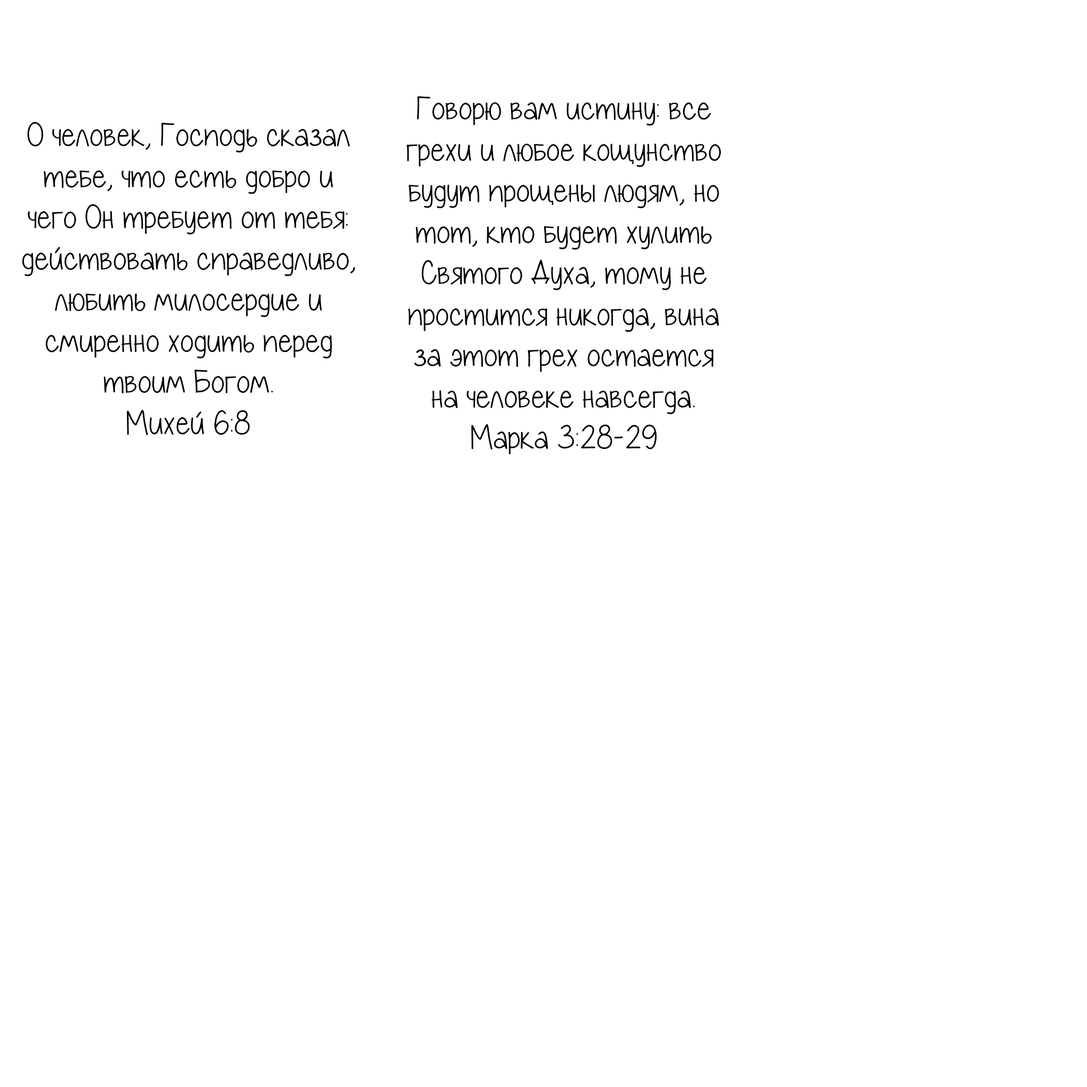
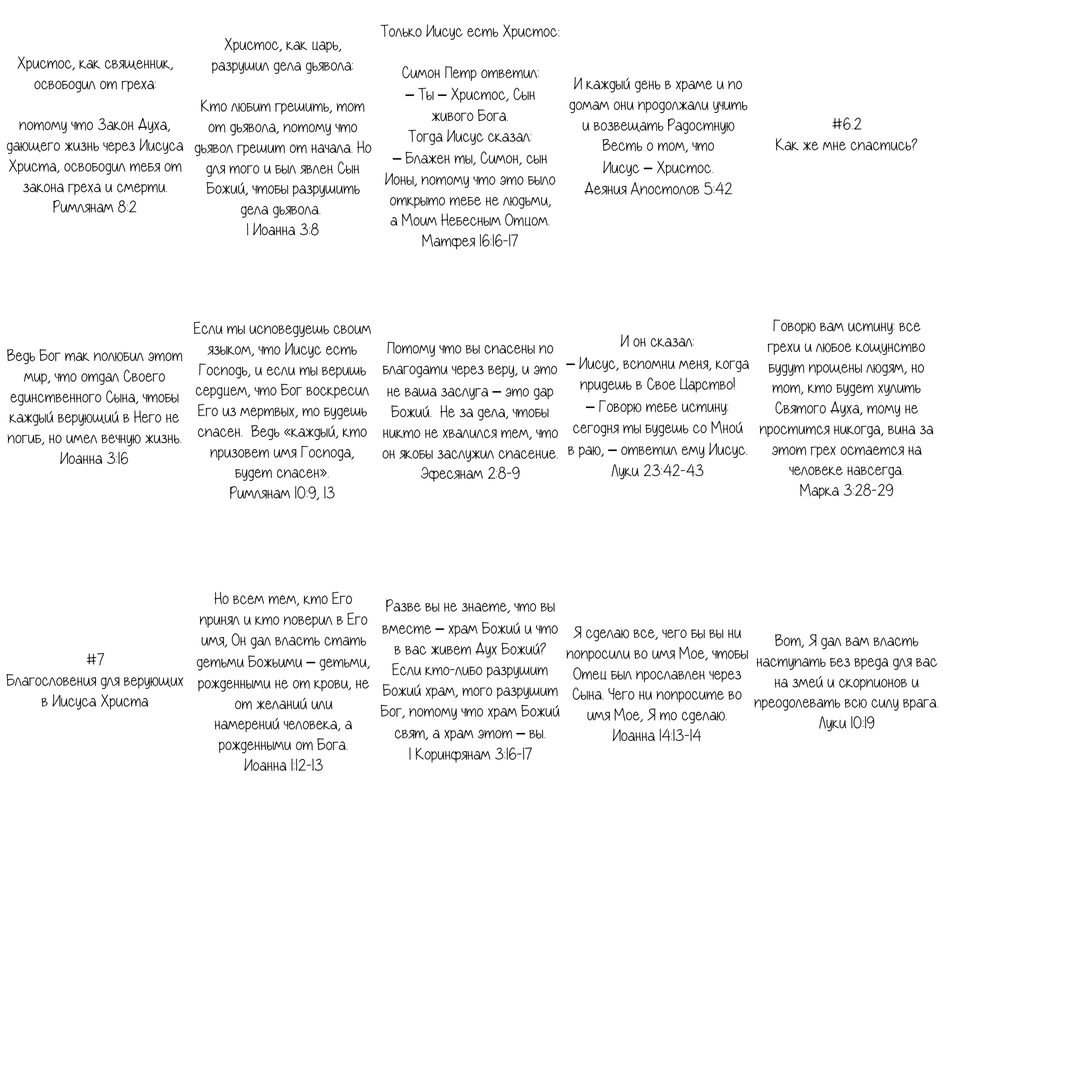
fef

diff --git a/slvtn/data.js b/slvtn/data.js
@@ -1,1 +1,1 @@
-{"project": [null,null,[[0,true,false,false,false,false,false,false,false,false],[1,true,false,false,false,false,false,false,false,false],[2,true,false,false,false,false,false,false,false,false],[3,true,false,false,false,false,false,false,false,false],[4,false,true,true,true,true,true,true,true,false]],[["t0",4,false,[],2,0,null,[["Default",0,false,1,0,false,418995464183277,[["images/logo-sheet0.png",111375,1,1,1280,779,1,0.5,0.5006418228149414,[],[],0],["images/logo-sheet0.png",111375,1,782,1280,779,1,0.5,0.5006418228149414,[],[],0]]],["wow",10,true,1,0,false,486923032463657,[["images/logo-sheet1.png",756241,1,1,1280,779,1,0.5,0.5006418228149414,[],[],0],["images/logo-sheet1.png",756241,1,782,1280,779,1,0.5,0.5006418228149414,[],[],0],["images/logo-sheet2.png",1260247,1,1,1280,779,1,0.5,0.5006418228149414,[],[],0],["images/logo-sheet2.png",1260247,1,782,1280,779,1,0.5,0.5006418228149414,[],[],0],["images/logo-sheet3.png",919888,1,1,1280,779,1,0.5,0.5006418228149414,[],[],0],["images/logo-sheet3.png",919888,1,782,1280,779,1,0.5,0.5006418228149414,[],[],0]]]],[["Bullet",5,258832219432166],["Fade",6,130368084421099]],false,false,625562632181769,[],null],["t1",3,false,[],0,0,null,null,[],false,false,325581992832441,[],null,[1]],["t2",4,false,[],1,0,null,[["Default",5,false,1,0,false,520214199912907,[["images/fader-sheet0.png",98,0,0,64,64,1,0,0,[],[],4]]]],[["Fade",6,502126500751689]],false,false,830982981311334,[],null],["t3",4,false,[],1,0,null,[["Default",20,false,1,0,false,322805464292441,[["images/logo2-sheet0.png",70864,1,1,544,484,40,0.5036764740943909,0.5351239442825317,[],[],0],["images/logo2-sheet0.png",70864,1,487,544,484,1,0.5036764740943909,0.5351239442825317,[],[],0],["images/logo2-sheet1.png",63134,1,1,544,484,1,0.5036764740943909,0.5351239442825317,[],[],0],["images/logo2-sheet1.png",63134,1,487,544,484,1,0.5036764740943909,0.5351239442825317,[],[],0],["images/logo2-sheet2.png",9606,0,0,544,484,1,0.5036764740943909,0.5351239442825317,[],[],0]]]],[["Rotate",7,834762451857370]],false,false,378574359829819,[],null],["t4",2,false,[],0,0,null,null,[],false,false,117401536936943,[],null,[]],["t5",4,false,[],3,0,null,[["Default",0,true,1,0,false,477143906605000,[["images/text-sheet0.png",44873,1,1,704,1024,1,0,0,[],[],0],["images/text-sheet0.png",44873,707,1,704,1024,1,0,0,[],[],0],["images/text-sheet1.png",109628,1,1,704,1024,1,0,0,[],[],0],["images/text-sheet1.png",109628,707,1,704,1024,1,0,0,[],[],0],["images/text-sheet2.png",88847,1,1,704,1024,1,0,0,[],[],0],["images/text-sheet2.png",88847,707,1,704,1024,1,0,0,[],[],0],["images/text-sheet3.png",67384,1,1,704,1024,1,0,0,[],[],0],["images/text-sheet3.png",67384,707,1,704,1024,1,0,0,[],[],0],["images/text-sheet4.png",98690,1,1,704,1024,1,0,0,[],[],0],["images/text-sheet4.png",98690,707,1,704,1024,1,0,0,[],[],0],["images/text-sheet5.png",90962,1,1,704,1024,1,0,0,[],[],0],["images/text-sheet5.png",90962,707,1,704,1024,1,0,0,[],[],0],["images/text-sheet6.png",98769,1,1,704,1024,1,0,0,[],[],0],["images/text-sheet6.png",98769,707,1,704,1024,1,0,0,[],[],0],["images/text-sheet7.png",137469,1,1,704,1024,1,0,0,[],[],0],["images/text-sheet7.png",137469,707,1,704,1024,1,0,0,[],[],0],["images/text-sheet8.png",87906,1,1,704,1024,1,0,0,[],[],0],["images/text-sheet8.png",87906,707,1,704,1024,1,0,0,[],[],0],["images/text-sheet9.png",63360,1,1,704,1024,1,0,0,[],[],0],["images/text-sheet9.png",63360,707,1,704,1024,1,0,0,[],[],0],["images/text-sheet10.png",83434,1,1,704,1024,1,0,0,[],[],0],["images/text-sheet10.png",83434,707,1,704,1024,1,0,0,[],[],0],["images/text-sheet11.png",112515,1,1,704,1024,1,0,0,[],[],0],["images/text-sheet11.png",112515,707,1,704,1024,1,0,0,[],[],0],["images/text-sheet12.png",110165,1,1,704,1024,1,0,0,[],[],0],["images/text-sheet12.png",110165,707,1,704,1024,1,0,0,[],[],0],["images/text-sheet13.png",96951,1,1,704,1024,1,0,0,[],[],0],["images/text-sheet13.png",96951,707,1,704,1024,1,0,0,[],[],0],["images/text-sheet14.png",131974,1,1,704,1024,1,0,0,[],[],0],["images/text-sheet14.png",131974,707,1,704,1024,1,0,0,[],[],0],["images/text-sheet0.png",44873,1,1,704,1024,1,0,0,[],[],0]]]],[["Fade",6,762607037525578],["Sine",8,310269854434896],["Sine2",8,153234466315631]],false,false,980037354401000,[],null],["t6",4,false,[],2,0,null,[["Default",10,true,1,0,false,286720204767816,[["images/fish-sheet0.png",1759,0,0,105,55,1,0.6190476417541504,0.4545454680919647,[],[],0]]]],[["Bullet",5,398600097548712],["Sine",8,937536113305606]],false,false,270263356357658,[],null],["t7",4,false,[],3,0,null,[["Default",10,true,1,0,false,806052471575343,[["images/fish_touch-sheet0.png",15907,1,1,128,128,1,0.5,0.5,[],[0.25,-0.125,0.25,0.125,-0.25,0.125,-0.25,-0.125],0],["images/fish_touch-sheet0.png",15907,131,1,128,128,1,0.5,0.5,[],[0.25,-0.125,0.25,0.125,-0.25,0.125,-0.25,-0.125],0],["images/fish_touch-sheet0.png",15907,261,1,128,128,1,0.5,0.5,[],[0.25,-0.125,0.25,0.125,-0.25,0.125,-0.25,-0.125],0],["images/fish_touch-sheet0.png",15907,1,131,128,128,1,0.5,0.5,[],[0.25,-0.125,0.25,0.125,-0.25,0.125,-0.25,-0.125],0]]]],[["Bullet",5,232237993561191],["Rotate",7,256522895414217],["Fade",6,694578646780924]],false,false,863775023120009,[],null],["t8",4,false,[],2,0,null,[["Default",0,false,1,0,false,105160499303181,[["images/button-sheet0.png",679,0,0,64,64,1,0.5,0.5,[],[],0],["images/button-sheet1.png",677,0,0,64,64,1,0.5,0.5,[],[0.5,0.5,-0.5,0.5,-0.5,-0.5,0.5,-0.5],0],["images/button-sheet2.png",711,0,0,64,64,1,0.5,0.5,[],[-0.5,0.5,-0.5,-0.5,0.5,-0.5,0.5,0.5],0]]]],[["Fade",6,964623300330851],["Sine",8,503108475491759]],false,false,423526262302037,[],null],["t9",4,false,[],1,0,null,[["Default",5,false,1,0,false,177266135327206,[["images/swiper-sheet0.png",155,0,0,64,64,1,0.5,0.5,[],[],1]]]],[["DragDrop",9,703997974765577]],false,false,682323976581314,[],null],["t10",4,false,[],0,0,null,[["Default",0,false,1,0,false,936314431238278,[["images/swipeleft-sheet0.png",250,0,0,32,32,1,0.5,0.5,[],[],1],["images/swipeleft-sheet1.png",253,0,0,32,32,1,0.5,0.5,[],[0.5,0.5,-0.5,0.5,-0.5,-0.5,0.5,-0.5],1],["images/swipeleft-sheet2.png",273,0,0,32,32,1,0.5,0.5,[],[0.5,-0.5,0.5,0.5,-0.5,0.5,-0.5,-0.5],1]]]],[],false,false,795979371291810,[],null],["t11",1,false,[],0,0,null,null,[],false,false,911370795878534,[],null,[]],["t12",4,false,[],0,0,null,[["Default",0,false,1,0,false,169995371690734,[["images/prayer-sheet0.png",167163,1,1,694,452,1,0,0,[],[],0],["images/prayer-sheet0.png",167163,697,1,694,452,1,0,0,[],[],0],["images/prayer-sheet0.png",167163,1,455,694,452,1,0,0,[],[],0],["images/prayer-sheet0.png",167163,697,455,694,452,1,0,0,[],[],0],["images/prayer-sheet0.png",167163,1,909,694,452,1,0,0,[],[],0],["images/prayer-sheet0.png",167163,697,909,694,452,1,0,0,[],[],0],["images/prayer-sheet0.png",167163,1,1363,694,452,1,0,0,[],[],0]]]],[],false,false,826899378113062,[],null],["t13",0,false,[],0,0,null,null,[],false,false,729709261876184,[],null,[]]],[],[["Layout 1",480,640,true,"Event sheet 1",205624433080386,[["bg",0,201671412246468,true,[255,255,255],false,1,1,1,false,false,1,0,0,[[[240,320,0,259.4276123046875,157.8860321044922,0,0,1,0.5,0.5006418228149414,0,0,[]],0,0,[],[[0,200,0,0,0,0],[0,0,0,2,1]],[0,"Default",0,1]]],[]],["text",1,597259016454424,true,[255,255,255],true,1,1,1,false,false,1,0,0,[[[64,64,0,352,512,0,0,1,0,0,0,0,[]],5,5,[],[[0,1,0,0,0],[1,0,0,4,1,1,1,8,0],[1,1,0,4,1,1,1,8,0]],[1,"Default",1,1]]],[]],["fish",2,125795159697013,true,[255,255,255],true,1,1,1,false,false,1,0,0,[[[192,960,0,44.21435165405273,23.1599006652832,0,0,1,0.6190476417541504,0.4545454680919647,0,0,[]],6,6,[],[[400,0,0,0,1,1],[1,1,0,4,1,1,1,16,0]],[0,"Default",0,1]],[[256,896,0,64,64,0,0,1,0.5,0.5,0,0,[]],7,7,[],[[50,100,0,0,1,1],[180,0],[1,0.5,1,2,1]],[0,"Default",0,1]]],[]],["vertuha",3,113385474911044,true,[255,255,255],true,1,1,1,false,false,1,0,0,[[[315.0949401855469,293.4939575195313,0,110.2567367553711,98.0960693359375,0,0.03490658476948738,1,0.5036764740943909,0.5351239442825317,0,0,[]],3,3,[],[[360,-179]],[0,"Default",0,1]]],[]],["buttons",4,520819614271636,true,[255,255,255],true,1,1,1,false,false,1,0,0,[[[64,544,0,352,224,0,0,1,0,0,0,0,[]],12,14,[],[],[1,"Default",0,1]],[[240,608,0,32,32,0,0,1,0.5,0.5,0,0,[]],8,17,[],[[0,1,1,1,0],[1,1,0,1,0,0,0,8,0]],[1,"Default",2,1]]],[]],["fader",5,800787038877238,true,[255,255,255],true,1,1,1,false,false,1,0,0,[[[-1472,-736,0,3552,2080,0,0,1,0,0,0,0,[]],2,2,[],[[1,0,0,1,1]],[0,"Default",0,1]]],[]],["swiper",6,695357641955091,false,[255,255,255],true,1,1,1,false,false,1,0,0,[[[256,320,0,1024,960,0,0,1,0.5,0.5,0,0,[]],9,10,[],[[0,0]],[0,"Default",0,1]],[[-384,320,0,96,160,0,0,1,0.5,0.5,0,0,[]],10,11,[],[],[0,"Default",0,1]],[[896,320,0,96,160,0,0,1,0.5,0.5,0,0,[]],10,12,[],[],[0,"Default",1,1]],[[240,-288,0,96,96,0,0,1,0.5,0.5,0,0,[]],10,15,[],[],[0,"Default",2,1]]],[]]],[],[["blurhorizontal","BlurHorizontal",[0.2]],["blurvertical","BlurVertical",[0.2]],["inverse","Inverse",[1]]]]],[["Event sheet 1",[[1,"date",0,0,false,false,696302567398240,false],[0,null,false,null,309624172096126,[[1,10,null,1,false,false,false,628744509108439,false,[[4,0]]],[0,11,null,0,false,false,false,913189327810310,false,[[8,0],[0,[0,1]]]]],[[0,12,null,698992189874373,false,[[1,[2,"wow"]],[3,1]]]]],[0,null,false,null,323952989739225,[[-1,13,null,1,false,false,false,322531624705658,false]],[[-1,14,null,827989714910915,false,[[0,[1,2]]]],[3,15,"Rotate",618631225360874,false,[[0,[0,0]]]],[3,16,"Rotate",730891330793725,false,[[0,[0,0]]]],[-1,14,null,751084052768725,false,[[0,[1,0.2]]]],[3,17,null,361857955112781,false],[0,18,null,390602852570839,false,[[0,[0,1]]]],[-1,14,null,380398229959213,false,[[0,[1,0.3]]]],[0,19,"Bullet",229405659203501,false,[[3,1]]],[-1,14,null,892896219824449,false,[[0,[1,0.001]]]],[0,20,"Bullet",516493230263629,false,[[0,[0,270]]]],[0,21,"Fade",763469177023472,false],[-1,14,null,934034680713200,false,[[0,[0,2]]]],[9,22,"DragDrop",877659753415498,false,[[3,1]]],[5,21,"Fade",276875999067623,false],[5,23,null,102436078860544,false,[[3,1]]],[5,18,null,656973415752054,false,[[0,[19,24,[[19,25,[[0,1],[5,[20,5,26,false,null],[0,2]]]]]]]]],[-1,14,null,497564761132166,false,[[0,[0,8]]]],[8,21,"Fade",699641798993413,false],[8,23,null,723305404960673,false,[[3,1]]]]],[0,null,false,null,440433630469907,[[-1,13,null,1,false,false,false,451229515941913,false]],[[-1,27,null,471891387691132,false,[[11,"date"],[7,[20,4,28,false,null,[[2,"var d = new Date(); d.getHours();"]]]]]]],[[0,null,false,null,618537243317330,[[-1,29,null,0,false,false,false,240538950288424,false,[[11,"date"],[8,4],[7,[0,6]]]],[-1,29,null,0,false,false,false,527729520498926,false,[[11,"date"],[8,2],[7,[0,19]]]]],[[-1,30,null,152124672107683,false,[[3,0],[1,[2,"Inverse"]]]]]]]],[0,null,false,null,322524124446675,[[-1,31,null,0,false,false,false,558947456675569,false,[[0,[19,25,[[0,3]]]]]]],[[-1,32,null,986730461722726,false,[[4,6],[5,[0,2]],[0,[0,-640]],[0,[19,25,[[0,640]]]]]],[6,33,null,928980478511326,false,[[0,[19,25,[[1,0.3],[1,0.9]]]]]],[6,34,"Bullet",435331186895883,false,[[0,[19,25,[[0,20],[0,100]]]]]],[6,35,null,789542019451149,false,[[0,[19,25,[[0,10],[0,25]]]]]],[-1,14,null,871583520327419,false,[[0,[0,60]]]],[6,17,null,583221185704560,false]]],[0,null,false,null,399430186267045,[[1,36,null,0,false,false,false,699984781294561,false],[-1,31,null,0,false,false,false,710016541216087,false,[[0,[1,0.05]]]]],[[-1,32,null,102795230569019,false,[[4,7],[5,[0,2]],[0,[20,1,37,false,null]],[0,[20,1,38,false,null]]]],[7,39,null,728806643229993,false,[[0,[19,25,[[0,360]]]]]],[7,15,"Rotate",660212680631090,false,[[0,[19,25,[[0,-100],[0,100]]]]]],[-1,14,null,136392356347118,false,[[0,[1,0.05]]]],[7,40,null,908478426226159,false,[[0,[20,1,37,false,null]],[0,[20,1,38,false,null]]]],[7,41,null,912532032442723,false,[[0,[6,[0,64],[19,25,[[1,0.6],[1,1.2]]]]],[0,[6,[0,64],[19,25,[[1,0.6],[1,1.2]]]]]]]]],[0,null,false,null,290002719010398,[[9,42,null,0,false,false,true,253391445801160,false,[[4,10]]],[5,43,null,0,false,false,false,815664970303180,false],[5,44,null,0,false,false,false,627584844871605,false,[[8,0],[0,[0,512]]]]],[[5,45,"Fade",649013950654889,false],[8,17,null,346264767593470,false]],[[0,null,false,null,569473609311635,[[10,11,null,0,false,false,false,747227902416336,false,[[8,0],[0,[0,0]]]]],[[9,46,"DragDrop",439735253539397,false],[9,47,null,126287724741578,false,[[0,[0,256]],[0,[0,320]]]],[5,18,null,797191449587187,false,[[0,[4,[20,5,48,false,null],[0,1]]]]]]],[0,null,false,null,556268961098407,[[10,11,null,0,false,false,false,746880719686533,false,[[8,0],[0,[0,1]]]]],[[9,46,"DragDrop",232590711231413,false],[9,47,null,910510762433961,false,[[0,[0,256]],[0,[0,320]]]],[5,18,null,105555962807018,false,[[0,[5,[20,5,48,false,null],[0,1]]]]]]]]],[0,null,false,null,921486789102260,[[5,11,null,0,false,false,false,332983489528877,false,[[8,0],[0,[5,[20,5,26,false,null],[0,1]]]]]],[[5,18,null,774720743596251,false,[[0,[0,1]]]]]],[0,null,false,null,289143839717927,[[5,11,null,0,false,false,false,376388425455066,false,[[8,0],[0,[0,0]]]]],[[5,18,null,220254098358816,false,[[0,[5,[20,5,26,false,null],[0,2]]]]]]],[0,null,false,null,362531363375375,[[11,49,null,1,false,false,false,492839751150176,false,[[9,39]]],[5,44,null,0,false,false,false,122777761346644,false,[[8,0],[0,[0,512]]]],[5,43,null,0,false,false,false,458829672488222,false]],[[9,46,"DragDrop",372446919086437,false],[9,47,null,458040420002859,false,[[0,[0,256]],[0,[0,320]]]],[5,18,null,226093998338585,false,[[0,[4,[20,5,48,false,null],[0,1]]]]],[5,45,"Fade",285880504700183,false],[8,17,null,614844437458999,false]]],[0,null,false,null,507549630433831,[[11,49,null,1,false,false,false,187476851082478,false,[[9,37]]],[5,44,null,0,false,false,false,979809232295585,false,[[8,0],[0,[0,512]]]],[5,43,null,0,false,false,false,371597332052268,false]],[[9,46,"DragDrop",898064119347716,false],[9,47,null,330218325154033,false,[[0,[0,256]],[0,[0,320]]]],[5,18,null,244379294966719,false,[[0,[5,[20,5,48,false,null],[0,1]]]]],[5,45,"Fade",523795082220286,false],[8,17,null,486799479024622,false]]],[0,null,true,null,621094618470503,[[9,42,null,0,false,false,true,733449104710207,false,[[4,10]]],[11,49,null,1,false,false,false,820685941675464,false,[[9,38]]]],[],[[0,null,false,null,407444062349930,[[10,11,null,0,false,false,false,442545474797143,false,[[8,0],[0,[0,2]]]],[5,43,null,0,false,false,false,974685639080253,false],[5,44,null,0,false,false,false,393363628550767,false,[[8,0],[0,[0,512]]]]],[[5,45,"Fade",504299301496474,false],[8,17,null,773783775503613,false],[9,46,"DragDrop",675688244861622,false],[9,47,null,865139520780953,false,[[0,[0,256]],[0,[0,320]]]],[-1,14,null,260353448136262,false,[[0,[1,0.01]]]],[5,50,null,347447832920938,false,[[0,[0,511]]]],[5,47,null,608845375689987,false,[[0,[0,64]],[0,[0,16]]]],[12,23,null,317627127177109,false,[[3,1]]],[12,47,null,216904509758556,false,[[0,[0,64]],[0,[0,544]]]]]],[0,null,false,null,418539868187718,[[10,11,null,0,false,false,false,588693339342128,false,[[8,0],[0,[0,2]]]],[5,43,null,0,false,false,false,729981718879023,false],[5,44,null,0,false,false,false,102965017489362,false,[[8,0],[0,[0,511]]]]],[[9,46,"DragDrop",720352861690106,false],[9,47,null,850325845660246,false,[[0,[0,256]],[0,[0,320]]]],[13,51,null,259448243290204,false,[[1,[2,"move"]],[13]]]]]]],[0,null,false,null,829470260751105,[[13,52,null,2,false,false,false,863163373314702,false,[[1,[2,"move"]]]]],[[12,53,null,219851476356067,false,[[0,[5,[20,12,54,false,null],[0,8]]]]],[-1,14,null,923250318269756,false,[[0,[1,0.01]]]],[12,53,null,912751617105909,false,[[0,[5,[20,12,54,false,null],[0,8]]]]],[-1,14,null,173037055267767,false,[[0,[1,0.01]]]],[12,53,null,805894337193381,false,[[0,[5,[20,12,54,false,null],[0,8]]]]],[-1,14,null,106248481428556,false,[[0,[1,0.01]]]],[12,53,null,306712211342771,false,[[0,[5,[20,12,54,false,null],[0,4]]]]],[-1,14,null,275918312560823,false,[[0,[1,0.01]]]],[12,53,null,904947758450616,false,[[0,[5,[20,12,54,false,null],[0,2]]]]],[-1,14,null,350135188166338,false,[[0,[1,0.01]]]],[12,53,null,374072380550109,false,[[0,[5,[20,12,54,false,null],[0,1]]]]],[-1,14,null,687833072212219,false,[[0,[1,0.01]]]],[12,53,null,309062102660616,false,[[0,[5,[20,12,54,false,null],[0,1]]]]],[12,18,null,368333704009768,false,[[0,[4,[20,12,48,false,null],[0,1]]]]]]],[0,null,false,null,698897770791210,[[12,11,null,0,false,false,false,117825005702246,false,[[8,0],[0,[0,6]]]]],[[12,18,null,119168233861148,false,[[0,[0,0]]]],[5,50,null,671739142103857,false,[[0,[0,512]]]],[5,47,null,177384678834327,false,[[0,[0,64]],[0,[0,64]]]],[12,23,null,672502653215761,false,[[3,0]]],[12,47,null,991157610259896,false,[[0,[0,64]],[0,[0,544]]]],[5,45,"Fade",783470661729937,false]]],[0,null,false,null,271009559236667,[[9,55,"DragDrop",1,false,false,false,996618354902519,false]],[[9,47,null,302303908717624,false,[[0,[0,256]],[0,[0,320]]]]]]]]],[],"media/",false,480,640,3,true,true,true,"1",true,false,3,0,18,false,true,1,true,"slvtn",0,[]]}
+{"project": [null,null,[[0,true,false,false,false,false,false,false,false,false],[1,true,false,false,false,false,false,false,false,false],[2,true,false,false,false,false,false,false,false,false],[3,true,false,false,false,false,false,false,false,false],[4,false,true,true,true,true,true,true,true,false]],[["t0",4,false,[],2,0,null,[["Default",0,false,1,0,false,418995464183277,[["images/logo-sheet0.png",111375,1,1,1280,779,1,0.5,0.5006418228149414,[],[],0],["images/logo-sheet0.png",111375,1,782,1280,779,1,0.5,0.5006418228149414,[],[],0]]],["wow",10,true,1,0,false,486923032463657,[["images/logo-sheet1.png",756241,1,1,1280,779,1,0.5,0.5006418228149414,[],[],0],["images/logo-sheet1.png",756241,1,782,1280,779,1,0.5,0.5006418228149414,[],[],0],["images/logo-sheet2.png",1260247,1,1,1280,779,1,0.5,0.5006418228149414,[],[],0],["images/logo-sheet2.png",1260247,1,782,1280,779,1,0.5,0.5006418228149414,[],[],0],["images/logo-sheet3.png",919888,1,1,1280,779,1,0.5,0.5006418228149414,[],[],0],["images/logo-sheet3.png",919888,1,782,1280,779,1,0.5,0.5006418228149414,[],[],0]]]],[["Bullet",5,258832219432166],["Fade",6,130368084421099]],false,false,625562632181769,[],null],["t1",3,false,[],0,0,null,null,[],false,false,325581992832441,[],null,[1]],["t2",4,false,[],1,0,null,[["Default",5,false,1,0,false,520214199912907,[["images/fader-sheet0.png",98,0,0,64,64,1,0,0,[],[],4]]]],[["Fade",6,502126500751689]],false,false,830982981311334,[],null],["t3",4,false,[],1,0,null,[["Default",20,false,1,0,false,322805464292441,[["images/logo2-sheet0.png",70864,1,1,544,484,40,0.5036764740943909,0.5351239442825317,[],[],0],["images/logo2-sheet0.png",70864,1,487,544,484,1,0.5036764740943909,0.5351239442825317,[],[],0],["images/logo2-sheet1.png",63134,1,1,544,484,1,0.5036764740943909,0.5351239442825317,[],[],0],["images/logo2-sheet1.png",63134,1,487,544,484,1,0.5036764740943909,0.5351239442825317,[],[],0],["images/logo2-sheet2.png",9606,0,0,544,484,1,0.5036764740943909,0.5351239442825317,[],[],0]]]],[["Rotate",7,834762451857370]],false,false,378574359829819,[],null],["t4",0,false,[],0,0,null,null,[],false,false,117401536936943,[],null,[]],["t5",4,false,[],3,0,null,[["Default",0,true,1,0,false,477143906605000,[["images/text-sheet0.png",317260,1,1,352,512,1,0,0,[],[],0],["images/text-sheet0.png",317260,355,1,352,512,1,0,0,[],[],0],["images/text-sheet0.png",317260,709,1,352,512,1,0,0,[],[],0],["images/text-sheet0.png",317260,1063,1,352,512,1,0,0,[],[],0],["images/text-sheet0.png",317260,1417,1,352,512,1,0,0,[],[],0],["images/text-sheet0.png",317260,1,515,352,512,1,0,0,[],[],0],["images/text-sheet0.png",317260,355,515,352,512,1,0,0,[],[],0],["images/text-sheet0.png",317260,709,515,352,512,1,0,0,[],[],0],["images/text-sheet0.png",317260,1063,515,352,512,1,0,0,[],[],0],["images/text-sheet0.png",317260,1417,515,352,512,1,0,0,[],[],0],["images/text-sheet0.png",317260,1,1029,352,512,1,0,0,[],[],0],["images/text-sheet0.png",317260,355,1029,352,512,1,0,0,[],[],0],["images/text-sheet0.png",317260,709,1029,352,512,1,0,0,[],[],0],["images/text-sheet0.png",317260,1063,1029,352,512,1,0,0,[],[],0],["images/text-sheet0.png",317260,1417,1029,352,512,1,0,0,[],[],0],["images/text-sheet1.png",353833,1,1,352,512,1,0,0,[],[],0],["images/text-sheet1.png",353833,355,1,352,512,1,0,0,[],[],0],["images/text-sheet1.png",353833,709,1,352,512,1,0,0,[],[],0],["images/text-sheet1.png",353833,1063,1,352,512,1,0,0,[],[],0],["images/text-sheet1.png",353833,1417,1,352,512,1,0,0,[],[],0],["images/text-sheet1.png",353833,1,515,352,512,1,0,0,[],[],0],["images/text-sheet1.png",353833,355,515,352,512,1,0,0,[],[],0],["images/text-sheet1.png",353833,709,515,352,512,1,0,0,[],[],0],["images/text-sheet1.png",353833,1063,515,352,512,1,0,0,[],[],0],["images/text-sheet1.png",353833,1417,515,352,512,1,0,0,[],[],0],["images/text-sheet1.png",353833,1,1029,352,512,1,0,0,[],[],0],["images/text-sheet1.png",353833,355,1029,352,512,1,0,0,[],[],0],["images/text-sheet1.png",353833,709,1029,352,512,1,0,0,[],[],0],["images/text-sheet1.png",353833,1063,1029,352,512,1,0,0,[],[],0],["images/text-sheet1.png",353833,1417,1029,352,512,1,0,0,[],[],0],["images/text-sheet2.png",172707,1,1,352,512,1,0,0,[],[],0],["images/text-sheet2.png",172707,355,1,352,512,1,0,0,[],[],0],["images/text-sheet2.png",172707,709,1,352,512,1,0,0,[],[],0],["images/text-sheet2.png",172707,1063,1,352,512,1,0,0,[],[],0],["images/text-sheet2.png",172707,1417,1,352,512,1,0,0,[],[],0],["images/text-sheet2.png",172707,1,515,352,512,1,0,0,[],[],0],["images/text-sheet2.png",172707,355,515,352,512,1,0,0,[],[],0],["images/text-sheet0.png",317260,1,1,352,512,1,0,0,[],[],0]]],["salvation_route",0,true,1,0,false,537225645502406,[["images/text-sheet0.png",317260,1,1,352,512,1,0,0,[],[],0],["images/text-sheet2.png",172707,709,515,352,512,1,0,0,[],[],0],["images/text-sheet2.png",172707,1063,515,352,512,1,0,0,[],[],0],["images/text-sheet2.png",172707,1417,515,352,512,1,0,0,[],[],0],["images/text-sheet2.png",172707,1,1029,352,512,1,0,0,[],[],0],["images/text-sheet2.png",172707,355,1029,352,512,1,0,0,[],[],0],["images/text-sheet2.png",172707,709,1029,352,512,1,0,0,[],[],0],["images/text-sheet2.png",172707,1063,1029,352,512,1,0,0,[],[],0],["images/text-sheet2.png",172707,1417,1029,352,512,1,0,0,[],[],0],["images/text-sheet3.png",257072,1,1,352,512,1,0,0,[],[],0],["images/text-sheet3.png",257072,355,1,352,512,1,0,0,[],[],0],["images/text-sheet3.png",257072,709,1,352,512,1,0,0,[],[],0],["images/text-sheet3.png",257072,1063,1,352,512,1,0,0,[],[],0],["images/text-sheet3.png",257072,1417,1,352,512,1,0,0,[],[],0],["images/text-sheet2.png",172707,1063,1,352,512,1,0,0,[],[],0],["images/text-sheet3.png",257072,1,515,352,512,1,0,0,[],[],0],["images/text-sheet3.png",257072,355,515,352,512,1,0,0,[],[],0],["images/text-sheet3.png",257072,709,515,352,512,1,0,0,[],[],0],["images/text-sheet3.png",257072,1063,515,352,512,1,0,0,[],[],0],["images/text-sheet3.png",257072,1417,515,352,512,1,0,0,[],[],0],["images/text-sheet3.png",257072,1,1029,352,512,1,0,0,[],[],0],["images/text-sheet3.png",257072,355,1029,352,512,1,0,0,[],[],0],["images/text-sheet3.png",257072,709,1029,352,512,1,0,0,[],[],0],["images/text-sheet3.png",257072,1063,1029,352,512,1,0,0,[],[],0],["images/text-sheet3.png",257072,1417,1029,352,512,1,0,0,[],[],0],["images/text-sheet4.png",245249,1,1,352,512,1,0,0,[],[],0],["images/text-sheet4.png",245249,355,1,352,512,1,0,0,[],[],0],["images/text-sheet4.png",245249,709,1,352,512,1,0,0,[],[],0],["images/text-sheet4.png",245249,1063,1,352,512,1,0,0,[],[],0],["images/text-sheet4.png",245249,1417,1,352,512,1,0,0,[],[],0],["images/text-sheet4.png",245249,1,515,352,512,1,0,0,[],[],0],["images/text-sheet4.png",245249,355,515,352,512,1,0,0,[],[],0],["images/text-sheet4.png",245249,709,515,352,512,1,0,0,[],[],0],["images/text-sheet4.png",245249,1063,515,352,512,1,0,0,[],[],0],["images/text-sheet4.png",245249,1417,515,352,512,1,0,0,[],[],0],["images/text-sheet2.png",172707,1,1,352,512,1,0,0,[],[],0],["images/text-sheet2.png",172707,355,515,352,512,1,0,0,[],[],0],["images/text-sheet4.png",245249,1,1029,352,512,1,0,0,[],[],0],["images/text-sheet4.png",245249,355,1029,352,512,1,0,0,[],[],0],["images/text-sheet4.png",245249,709,1029,352,512,1,0,0,[],[],0],["images/text-sheet4.png",245249,1063,1029,352,512,1,0,0,[],[],0],["images/text-sheet2.png",172707,1417,1,352,512,1,0,0,[],[],0],["images/text-sheet2.png",172707,1,515,352,512,1,0,0,[],[],0],["images/text-sheet2.png",172707,709,1,352,512,1,0,0,[],[],0],["images/text-sheet4.png",245249,1417,1029,352,512,1,0,0,[],[],0],["images/text-sheet5.png",160544,1,1,352,512,1,0,0,[],[],0],["images/text-sheet2.png",172707,355,1,352,512,1,0,0,[],[],0],["images/text-sheet5.png",160544,355,1,352,512,1,0,0,[],[],0],["images/text-sheet5.png",160544,709,1,352,512,1,0,0,[],[],0],["images/text-sheet5.png",160544,1063,1,352,512,1,0,0,[],[],0],["images/text-sheet5.png",160544,1417,1,352,512,1,0,0,[],[],0],["images/text-sheet5.png",160544,1,515,352,512,1,0,0,[],[],0],["images/text-sheet5.png",160544,355,515,352,512,1,0,0,[],[],0],["images/text-sheet5.png",160544,709,515,352,512,1,0,0,[],[],0],["images/text-sheet5.png",160544,1063,515,352,512,1,0,0,[],[],0],["images/text-sheet5.png",160544,1417,515,352,512,1,0,0,[],[],0],["images/text-sheet0.png",317260,1,1,352,512,1,0,0,[],[],0]]]],[["Fade",6,762607037525578],["Sine",8,310269854434896],["Sine2",8,153234466315631]],false,false,980037354401000,[],null],["t6",4,false,[],2,0,null,[["Default",10,true,1,0,false,286720204767816,[["images/fish-sheet0.png",1150,0,0,64,32,1,0.625,0.46875,[],[],0]]]],[["Bullet",5,398600097548712],["Sine",8,937536113305606]],false,false,270263356357658,[],null],["t7",4,false,[],3,0,null,[["Default",10,true,1,0,false,806052471575343,[["images/fish_touch-sheet0.png",15907,1,1,128,128,1,0.5,0.5,[],[0.25,-0.125,0.25,0.125,-0.25,0.125,-0.25,-0.125],0],["images/fish_touch-sheet0.png",15907,131,1,128,128,1,0.5,0.5,[],[0.25,-0.125,0.25,0.125,-0.25,0.125,-0.25,-0.125],0],["images/fish_touch-sheet0.png",15907,261,1,128,128,1,0.5,0.5,[],[0.25,-0.125,0.25,0.125,-0.25,0.125,-0.25,-0.125],0],["images/fish_touch-sheet0.png",15907,1,131,128,128,1,0.5,0.5,[],[0.25,-0.125,0.25,0.125,-0.25,0.125,-0.25,-0.125],0]]]],[["Bullet",5,232237993561191],["Rotate",7,256522895414217],["Fade",6,694578646780924]],false,false,863775023120009,[],null],["t8",4,false,[],2,0,null,[["Default",0,false,1,0,false,105160499303181,[["images/button-sheet0.png",679,0,0,64,64,1,0.5,0.5,[],[],0]]]],[["Fade",6,964623300330851],["Sine",8,503108475491759]],false,false,423526262302037,[],null],["t9",4,false,[],1,0,null,[["Default",5,false,1,0,false,177266135327206,[["images/swiper-sheet0.png",155,0,0,64,64,1,0.5,0.5,[],[],1]]]],[["DragDrop",9,703997974765577]],false,false,682323976581314,[],null],["t10",4,false,[],0,0,null,[["Default",0,false,1,0,false,936314431238278,[["images/swipeleft-sheet0.png",250,0,0,32,32,1,0.5,0.5,[],[],1],["images/swipeleft-sheet1.png",253,0,0,32,32,1,0.5,0.5,[],[0.5,0.5,-0.5,0.5,-0.5,-0.5,0.5,-0.5],1],["images/swipeleft-sheet2.png",273,0,0,32,32,1,0.5,0.5,[],[0.5,-0.5,0.5,0.5,-0.5,0.5,-0.5,-0.5],1]]]],[],false,false,795979371291810,[],null],["t11",2,false,[],0,0,null,null,[],false,false,911370795878534,[],null,[]],["t12",4,false,[],0,0,null,[["Default",0,false,1,0,false,169995371690734,[["images/prayer-sheet0.png",167163,1,1,694,452,1,0,0,[],[],0],["images/prayer-sheet0.png",167163,697,1,694,452,1,0,0,[],[],0],["images/prayer-sheet0.png",167163,1,455,694,452,1,0,0,[],[],0],["images/prayer-sheet0.png",167163,697,455,694,452,1,0,0,[],[],0],["images/prayer-sheet0.png",167163,1,909,694,452,1,0,0,[],[],0],["images/prayer-sheet0.png",167163,697,909,694,452,1,0,0,[],[],0],["images/prayer-sheet0.png",167163,1,1363,694,452,1,0,0,[],[],0]]]],[],false,false,826899378113062,[],null],["t13",1,false,[],0,0,null,null,[],false,false,729709261876184,[],null,[]],["t14",4,false,[],1,0,null,[["Default",0,false,1,0,false,848278889389579,[["images/buttton-sheet0.png",4386,1,70,171,68,1,0.5029239654541016,0.5,[],[],0],["images/buttton-sheet0.png",4386,1,1,204,67,1,0.5,0.5074626803398132,[],[],0]]]],[["Fade",6,843179099277647]],false,false,927833600064146,[],null],["t15",4,false,[],2,0,null,[["Default",0,false,1,0,false,640247992749835,[["images/button-sheet0.png",679,0,0,64,64,1,0.5,0.5,[],[],0]]]],[["Fade",6,410742000596573],["Sine",8,566947371270276]],false,false,127714377664411,[],null],["t16",4,false,[],1,0,null,[["Default",5,false,1,0,false,559983728933671,[["images/blink-sheet0.png",5180,0,0,512,512,1,0.48828125,0.51171875,[],[],0]]]],[["Fade",6,624983641805669]],false,false,492051924620334,[],null]],[],[["Layout 1",480,640,true,"Event sheet 1",205624433080386,[["bg",0,201671412246468,true,[255,255,255],false,1,1,1,false,false,1,0,0,[[[240,320,0,259.4276123046875,157.8860321044922,0,0,1,0.5,0.5006418228149414,0,0,[]],0,0,[],[[0,200,0,0,0,0],[0,0,0,2,1]],[0,"Default",0,1]],[[800,1376,0,512,720,0,0,1,0.48828125,0.51171875,0,0,[]],16,20,[],[[1,0.1,0,0.7,1]],[1,"Default",0,1]]],[]],["text",1,597259016454424,true,[255,255,255],true,1,1,1,false,false,1,0,0,[[[64,64,0,352,512,0,0,1,0,0,0,0,[]],5,5,[],[[0,1,0,0,0],[1,0,0,4,1,1,1,8,0],[1,1,0,4,1,1,1,8,0]],[1,"salvation_route",1,1]]],[]],["fish",2,125795159697013,true,[255,255,255],true,1,1,1,false,false,1,0,0,[[[192,960,0,26.94969940185547,13.47485160827637,0,0,1,0.625,0.46875,0,0,[]],6,6,[],[[400,0,0,0,1,1],[1,1,0,4,1,1,1,16,0]],[0,"Default",0,1]],[[256,896,0,64,64,0,0,1,0.5,0.5,0,0,[]],7,7,[],[[50,100,0,0,1,1],[180,0],[1,0.5,1,2,1]],[0,"Default",0,1]]],[]],["vertuha",3,113385474911044,true,[255,255,255],true,1,1,1,false,false,1,0,0,[[[315.0949401855469,293.4939575195313,0,110.2567367553711,98.0960693359375,0,0.03490658476948738,1,0.5036764740943909,0.5351239442825317,0,0,[]],3,3,[],[[360,-179]],[0,"Default",0,1]]],[]],["buttons",4,520819614271636,true,[255,255,255],true,1,1,1,false,false,1,0,0,[[[64,544,0,352,224,0,0,1,0,0,0,0,[]],12,14,[],[],[1,"Default",0,1]],[[416,320,0,32,32,0,0,1,0.5,0.5,0,0,[]],8,17,[],[[0,1,1,1,0],[1,0,0,1,0,0,0,4,0]],[1,"Default",0,1]],[[64,320,0,32,32,0,3.141592741012573,1,0.5,0.5,0,0,[]],8,8,[],[[0,1,1,1,0],[1,0,0,1,0,0,0,-4,0]],[1,"Default",1,1]],[[240,288,0,171,68,0,0,1,0.5029239654541016,0.5,0,0,[]],14,9,[],[[0,1,0,0,0]],[1,"Default",0,1]],[[240,352,0,204,67,0,0,1,0.5,0.5074626803398132,0,0,[]],14,18,[],[[0,1,0,0,0]],[1,"Default",1,1]],[[240,576,0,32,32,0,-1.570796370506287,1,0.5,0.5,0,0,[]],15,19,[],[[0,1,1,1,0],[1,1,0,1,0,0,0,8,0]],[1,"Default",2,1]]],[]],["fader",5,800787038877238,true,[255,255,255],true,1,1,1,false,false,1,0,0,[[[-1472,-736,0,3552,2080,0,0,1,0,0,0,0,[]],2,2,[],[[1,0,0,1,1]],[0,"Default",0,1]]],[]],["swiper",6,695357641955091,false,[255,255,255],true,1,1,1,false,false,1,0,0,[[[256,320,0,1024,960,0,0,1,0.5,0.5,0,0,[]],9,10,[],[[0,0]],[0,"Default",0,1]],[[-384,320,0,96,160,0,0,1,0.5,0.5,0,0,[]],10,11,[],[],[0,"Default",0,1]],[[896,320,0,96,160,0,0,1,0.5,0.5,0,0,[]],10,12,[],[],[0,"Default",1,1]],[[240,-288,0,96,96,0,0,1,0.5,0.5,0,0,[]],10,15,[],[],[0,"Default",2,1]]],[]]],[],[["blurhorizontal","BlurHorizontal",[0.2]],["blurvertical","BlurVertical",[0.2]],["inverse","Inverse",[1]]]]],[["Event sheet 1",[[1,"date",0,0,false,false,696302567398240,false],[0,null,false,null,309624172096126,[[1,10,null,1,false,false,false,628744509108439,false,[[4,0]]],[0,11,null,0,false,false,false,913189327810310,false,[[8,0],[0,[0,1]]]]],[[0,12,null,698992189874373,false,[[1,[2,"wow"]],[3,1]]]]],[0,null,false,null,323952989739225,[[-1,13,null,1,false,false,false,322531624705658,false]],[[-1,14,null,827989714910915,false,[[0,[1,2]]]],[3,15,"Rotate",618631225360874,false,[[0,[0,0]]]],[3,16,"Rotate",730891330793725,false,[[0,[0,0]]]],[-1,14,null,751084052768725,false,[[0,[1,0.2]]]],[3,17,null,269188510763428,false,[[4,16],[5,[0,0]],[7,[0,0]]]],[16,18,null,170318933130325,false,[[0,[0,0]]]],[16,19,null,140536037311432,false,[[3,1]]],[3,20,null,361857955112781,false],[0,21,null,390602852570839,false,[[0,[0,1]]]],[-1,14,null,380398229959213,false,[[0,[1,0.5]]]],[0,22,"Bullet",229405659203501,false,[[3,1]]],[-1,14,null,892896219824449,false,[[0,[1,0.001]]]],[0,23,"Bullet",516493230263629,false,[[0,[0,270]]]],[0,24,"Fade",763469177023472,false],[-1,14,null,934034680713200,false,[[0,[0,2]]]],[14,19,null,331188801323335,false,[[3,1]]],[14,24,"Fade",517350915171024,false]]],[0,null,false,null,440433630469907,[[-1,13,null,1,false,false,false,451229515941913,false]],[[-1,25,null,471891387691132,false,[[11,"date"],[7,[20,4,26,false,null,[[2,"var d = new Date(); d.getHours();"]]]]]]],[[0,null,false,null,618537243317330,[[-1,27,null,0,false,false,false,240538950288424,false,[[11,"date"],[8,4],[7,[0,6]]]],[-1,27,null,0,false,false,false,527729520498926,false,[[11,"date"],[8,2],[7,[0,19]]]]],[[-1,28,null,152124672107683,false,[[3,0],[1,[2,"Inverse"]]]]]]]],[0,null,false,null,322524124446675,[[-1,29,null,0,false,false,false,558947456675569,false,[[0,[4,[19,30,[[0,2]]],[0,1]]]]]],[[-1,31,null,986730461722726,false,[[4,6],[5,[0,2]],[0,[0,-640]],[0,[19,30,[[0,640]]]]]],[6,32,null,928980478511326,false,[[0,[19,30,[[1,0.3],[1,0.9]]]]]],[6,33,"Bullet",435331186895883,false,[[0,[19,30,[[0,20],[0,100]]]]]],[6,34,null,789542019451149,false,[[0,[19,30,[[0,10],[0,25]]]]]],[-1,14,null,871583520327419,false,[[0,[0,60]]]],[6,20,null,583221185704560,false]]],[0,null,false,null,399430186267045,[[1,35,null,0,false,false,false,699984781294561,false],[-1,29,null,0,false,false,false,710016541216087,false,[[0,[1,0.05]]]]],[[-1,31,null,102795230569019,false,[[4,7],[5,[0,2]],[0,[20,1,36,false,null]],[0,[20,1,37,false,null]]]],[7,18,null,728806643229993,false,[[0,[19,30,[[0,360]]]]]],[7,15,"Rotate",660212680631090,false,[[0,[19,30,[[0,-100],[0,100]]]]]],[-1,14,null,136392356347118,false,[[0,[1,0.05]]]],[7,38,null,908478426226159,false,[[0,[20,1,36,false,null]],[0,[20,1,37,false,null]]]],[7,39,null,912532032442723,false,[[0,[6,[0,64],[19,30,[[1,0.6],[1,1.2]]]]],[0,[6,[0,64],[19,30,[[1,0.6],[1,1.2]]]]]]]]],[0,null,false,null,290002719010398,[[9,40,null,0,false,false,true,253391445801160,false,[[4,10]]],[5,41,null,0,false,false,false,815664970303180,false],[5,42,null,0,false,false,false,627584844871605,false,[[8,0],[0,[0,512]]]]],[[5,43,"Fade",649013950654889,false],[8,20,null,346264767593470,false]],[[0,null,false,null,569473609311635,[[10,11,null,0,false,false,false,747227902416336,false,[[8,0],[0,[0,0]]]]],[[9,44,"DragDrop",439735253539397,false],[9,45,null,126287724741578,false,[[0,[0,256]],[0,[0,320]]]],[5,21,null,797191449587187,false,[[0,[4,[20,5,46,false,null],[0,1]]]]]]],[0,null,false,null,556268961098407,[[10,11,null,0,false,false,false,746880719686533,false,[[8,0],[0,[0,1]]]]],[[9,44,"DragDrop",232590711231413,false],[9,45,null,910510762433961,false,[[0,[0,256]],[0,[0,320]]]],[5,21,null,105555962807018,false,[[0,[5,[20,5,46,false,null],[0,1]]]]]]]]],[0,null,false,null,921486789102260,[[5,11,null,0,false,false,false,332983489528877,false,[[8,0],[0,[5,[20,5,47,false,null],[0,1]]]]],[5,48,null,0,false,false,false,564986696914461,false,[[1,[2,"Default"]]]]],[[5,21,null,774720743596251,false,[[0,[0,1]]]]]],[0,null,false,null,289143839717927,[[5,11,null,0,false,false,false,376388425455066,false,[[8,0],[0,[0,0]]]],[5,48,null,0,false,false,false,859443847571660,false,[[1,[2,"Default"]]]]],[[5,21,null,220254098358816,false,[[0,[5,[20,5,47,false,null],[0,2]]]]]]],[0,null,false,null,889798894353096,[[5,11,null,0,false,false,false,820005859421899,false,[[8,0],[0,[5,[20,5,47,false,null],[0,1]]]]],[5,48,null,0,false,false,false,540104503546297,false,[[1,[2,"salvation_route"]]]]],[[5,21,null,527334217827552,false,[[0,[5,[20,5,47,false,null],[0,2]]]]]]],[0,null,false,null,205901322155500,[[5,11,null,0,false,false,false,155539274490111,false,[[8,0],[0,[0,0]]]],[5,48,null,0,false,false,false,226109444444032,false,[[1,[2,"salvation_route"]]]]],[[5,21,null,207168125881259,false,[[0,[0,1]]]]]],[0,null,false,null,362531363375375,[[11,49,null,1,false,false,false,492839751150176,false,[[9,39]]],[5,42,null,0,false,false,false,122777761346644,false,[[8,0],[0,[0,512]]]],[5,41,null,0,false,false,false,458829672488222,false]],[[9,44,"DragDrop",372446919086437,false],[9,45,null,458040420002859,false,[[0,[0,256]],[0,[0,320]]]],[5,21,null,226093998338585,false,[[0,[4,[20,5,46,false,null],[0,1]]]]],[5,43,"Fade",285880504700183,false],[8,20,null,614844437458999,false]]],[0,null,false,null,507549630433831,[[11,49,null,1,false,false,false,187476851082478,false,[[9,37]]],[5,42,null,0,false,false,false,979809232295585,false,[[8,0],[0,[0,512]]]],[5,41,null,0,false,false,false,371597332052268,false]],[[9,44,"DragDrop",898064119347716,false],[9,45,null,330218325154033,false,[[0,[0,256]],[0,[0,320]]]],[5,21,null,244379294966719,false,[[0,[5,[20,5,46,false,null],[0,1]]]]],[5,43,"Fade",523795082220286,false],[8,20,null,486799479024622,false]]],[0,null,true,null,621094618470503,[[9,40,null,0,false,false,true,733449104710207,false,[[4,10]]],[11,49,null,1,false,false,false,820685941675464,false,[[9,38]]]],[],[[0,null,false,null,407444062349930,[[10,11,null,0,false,false,false,442545474797143,false,[[8,0],[0,[0,2]]]],[5,41,null,0,false,false,false,974685639080253,false],[5,42,null,0,false,false,false,393363628550767,false,[[8,0],[0,[0,512]]]],[5,48,null,0,false,false,false,998412068058876,false,[[1,[2,"Default"]]]]],[[5,43,"Fade",504299301496474,false],[8,20,null,773783775503613,false],[9,44,"DragDrop",675688244861622,false],[9,45,null,865139520780953,false,[[0,[0,256]],[0,[0,320]]]],[-1,14,null,260353448136262,false,[[0,[1,0.01]]]],[5,50,null,347447832920938,false,[[0,[0,511]]]],[5,45,null,608845375689987,false,[[0,[0,64]],[0,[0,16]]]],[12,19,null,317627127177109,false,[[3,1]]],[12,45,null,216904509758556,false,[[0,[0,64]],[0,[0,544]]]]]],[0,null,false,null,418539868187718,[[10,11,null,0,false,false,false,588693339342128,false,[[8,0],[0,[0,2]]]],[5,41,null,0,false,false,false,729981718879023,false],[5,42,null,0,false,false,false,102965017489362,false,[[8,0],[0,[0,511]]]],[5,48,null,0,false,false,false,376758437706497,false,[[1,[2,"Default"]]]]],[[9,44,"DragDrop",720352861690106,false],[9,45,null,850325845660246,false,[[0,[0,256]],[0,[0,320]]]],[13,51,null,259448243290204,false,[[1,[2,"move"]],[13]]]]]]],[0,null,false,null,829470260751105,[[13,52,null,2,false,false,false,863163373314702,false,[[1,[2,"move"]]]]],[[12,53,null,219851476356067,false,[[0,[5,[20,12,54,false,null],[0,8]]]]],[-1,14,null,923250318269756,false,[[0,[1,0.01]]]],[12,53,null,912751617105909,false,[[0,[5,[20,12,54,false,null],[0,8]]]]],[-1,14,null,173037055267767,false,[[0,[1,0.01]]]],[12,53,null,805894337193381,false,[[0,[5,[20,12,54,false,null],[0,8]]]]],[-1,14,null,106248481428556,false,[[0,[1,0.01]]]],[12,53,null,306712211342771,false,[[0,[5,[20,12,54,false,null],[0,4]]]]],[-1,14,null,275918312560823,false,[[0,[1,0.01]]]],[12,53,null,904947758450616,false,[[0,[5,[20,12,54,false,null],[0,2]]]]],[-1,14,null,350135188166338,false,[[0,[1,0.01]]]],[12,53,null,374072380550109,false,[[0,[5,[20,12,54,false,null],[0,1]]]]],[-1,14,null,687833072212219,false,[[0,[1,0.01]]]],[12,53,null,309062102660616,false,[[0,[5,[20,12,54,false,null],[0,1]]]]],[12,21,null,368333704009768,false,[[0,[4,[20,12,46,false,null],[0,1]]]]]]],[0,null,false,null,698897770791210,[[12,11,null,0,false,false,false,117825005702246,false,[[8,0],[0,[0,6]]]]],[[12,21,null,119168233861148,false,[[0,[0,0]]]],[5,50,null,671739142103857,false,[[0,[0,512]]]],[5,45,null,177384678834327,false,[[0,[0,64]],[0,[0,64]]]],[12,19,null,672502653215761,false,[[3,0]]],[12,45,null,991157610259896,false,[[0,[0,64]],[0,[0,544]]]],[5,43,"Fade",783470661729937,false]]],[0,null,false,null,271009559236667,[[9,55,"DragDrop",1,false,false,false,996618354902519,false]],[[9,45,null,302303908717624,false,[[0,[0,256]],[0,[0,320]]]]]],[0,null,false,null,869018355073604,[[1,56,null,1,false,false,false,579954283646364,false,[[4,14]]],[14,41,null,0,false,false,false,460597908742861,false]],[],[[0,null,false,null,442271655469449,[[14,11,null,0,false,false,false,865789010931993,false,[[8,0],[0,[0,0]]]]],[[5,12,null,913424835298102,false,[[1,[2,"salvation_route"]],[3,1]]],[5,21,null,783365293625945,false,[[0,[0,1]]]],[9,57,"DragDrop",732756693842810,false,[[3,1]]],[5,24,"Fade",833279778347859,false],[5,19,null,449720514424157,false,[[3,1]]],[-1,14,null,873175093137518,false,[[0,[0,1]]]],[8,24,"Fade",621466525562058,false],[8,19,null,362703917404184,false,[[3,1]]]]],[0,null,false,null,950071832339827,[[14,11,null,0,false,false,false,236622079020984,false,[[8,0],[0,[0,1]]]]],[[5,12,null,548341177018083,false,[[1,[2,"Default"]],[3,1]]],[5,21,null,197127727444791,false,[[0,[19,58,[[19,30,[[0,1],[5,[20,5,47,false,null],[0,2]]]]]]]]],[9,57,"DragDrop",444031942162433,false,[[3,1]]],[5,24,"Fade",634120598509552,false],[5,19,null,479323163813797,false,[[3,1]]],[-1,14,null,489892872546862,false,[[0,[0,1]]]],[15,24,"Fade",523128573325507,false],[15,19,null,575041438897142,false,[[3,1]]]]]]],[0,null,false,null,775455574855631,[[5,41,null,0,false,false,false,325439630512075,false]],[[14,20,null,888007207788578,false]]],[0,null,false,null,725357122595552,[[8,59,"Fade",1,false,false,false,956920375113387,false]],[],[[0,null,false,null,453658570520823,[[-1,60,null,0,true,false,false,690041140968136,false,[[0,[0,1]]]]],[[-1,31,null,302131517770414,false,[[4,7],[5,[0,2]],[0,[20,8,61,false,null]],[0,[20,8,54,false,null]]]],[7,18,null,977832988069183,false,[[0,[20,8,62,false,null]]]],[7,15,"Rotate",235056571187426,false,[[0,[19,30,[[0,-100],[0,100]]]]]],[7,39,null,524485271077641,false,[[0,[6,[0,64],[19,30,[[1,0.6],[1,1.2]]]]],[0,[6,[0,64],[19,30,[[1,0.6],[1,1.2]]]]]]]]]]],[0,null,false,null,999857108328077,[[15,59,"Fade",1,false,false,false,328675576322099,false]],[],[[0,null,false,null,946900293817996,[[-1,60,null,0,true,false,false,513124545648303,false,[[0,[0,2]]]]],[[-1,31,null,653021418776727,false,[[4,7],[5,[0,2]],[0,[20,15,61,false,null]],[0,[20,15,54,false,null]]]],[7,18,null,326504264780665,false,[[0,[20,15,62,false,null]]]],[7,15,"Rotate",485781053512166,false,[[0,[19,30,[[0,-100],[0,100]]]]]],[7,39,null,999516608842622,false,[[0,[6,[0,64],[19,30,[[1,0.6],[1,1.2]]]]],[0,[6,[0,64],[19,30,[[1,0.6],[1,1.2]]]]]]]]]]]]]],[],"media/",false,480,640,3,true,true,true,"2",true,false,3,0,21,false,true,1,false,"slvtn",0,[]]}

diff --git a/slvtn/c2runtime.js b/slvtn/c2runtime.js
@@ -20004,9 +20004,9 @@ cr.behaviors.Sin = function(runtime)
 	behaviorProto.exps = new Exps();
 }());
 cr.getObjectRefTable = function () { return [
+	cr.plugins_.Browser,
 	cr.plugins_.Function,
 	cr.plugins_.Keyboard,
-	cr.plugins_.Browser,
 	cr.plugins_.Touch,
 	cr.plugins_.Sprite,
 	cr.behaviors.Bullet,
@@ -20021,21 +20021,20 @@ cr.getObjectRefTable = function () { return [
 	cr.system_object.prototype.acts.Wait,
 	cr.behaviors.Rotate.prototype.acts.SetSpeed,
 	cr.behaviors.Rotate.prototype.acts.SetAcceleration,
+	cr.plugins_.Sprite.prototype.acts.Spawn,
+	cr.plugins_.Sprite.prototype.acts.SetAngle,
+	cr.plugins_.Sprite.prototype.acts.SetVisible,
 	cr.plugins_.Sprite.prototype.acts.Destroy,
 	cr.plugins_.Sprite.prototype.acts.SetAnimFrame,
 	cr.behaviors.Bullet.prototype.acts.SetEnabled,
 	cr.behaviors.Bullet.prototype.acts.SetAngleOfMotion,
 	cr.behaviors.Fade.prototype.acts.StartFade,
-	cr.behaviors.DragnDrop.prototype.acts.SetEnabled,
-	cr.plugins_.Sprite.prototype.acts.SetVisible,
-	cr.system_object.prototype.exps.round,
-	cr.system_object.prototype.exps.random,
-	cr.plugins_.Sprite.prototype.exps.AnimationFrameCount,
 	cr.system_object.prototype.acts.SetVar,
 	cr.plugins_.Browser.prototype.exps.ExecJS,
 	cr.system_object.prototype.cnds.CompareVar,
 	cr.system_object.prototype.acts.SetLayoutEffectEnabled,
 	cr.system_object.prototype.cnds.Every,
+	cr.system_object.prototype.exps.random,
 	cr.system_object.prototype.acts.CreateObject,
 	cr.plugins_.Sprite.prototype.acts.SetScale,
 	cr.behaviors.Bullet.prototype.acts.SetSpeed,
@@ -20043,7 +20042,6 @@ cr.getObjectRefTable = function () { return [
 	cr.plugins_.Touch.prototype.cnds.IsInTouch,
 	cr.plugins_.Touch.prototype.exps.X,
 	cr.plugins_.Touch.prototype.exps.Y,
-	cr.plugins_.Sprite.prototype.acts.SetAngle,
 	cr.plugins_.Sprite.prototype.acts.SetTowardPosition,
 	cr.plugins_.Sprite.prototype.acts.SetSize,
 	cr.plugins_.Sprite.prototype.cnds.OnCollision,
@@ -20053,11 +20051,20 @@ cr.getObjectRefTable = function () { return [
 	cr.behaviors.DragnDrop.prototype.acts.Drop,
 	cr.plugins_.Sprite.prototype.acts.SetPos,
 	cr.plugins_.Sprite.prototype.exps.AnimationFrame,
+	cr.plugins_.Sprite.prototype.exps.AnimationFrameCount,
+	cr.plugins_.Sprite.prototype.cnds.IsAnimPlaying,
 	cr.plugins_.Keyboard.prototype.cnds.OnKey,
 	cr.plugins_.Sprite.prototype.acts.SetHeight,
 	cr.plugins_.Function.prototype.acts.CallFunction,
 	cr.plugins_.Function.prototype.cnds.OnFunction,
 	cr.plugins_.Sprite.prototype.acts.SetY,
 	cr.plugins_.Sprite.prototype.exps.Y,
-	cr.behaviors.DragnDrop.prototype.cnds.OnDrop
+	cr.behaviors.DragnDrop.prototype.cnds.OnDrop,
+	cr.plugins_.Touch.prototype.cnds.OnTouchObject,
+	cr.behaviors.DragnDrop.prototype.acts.SetEnabled,
+	cr.system_object.prototype.exps.round,
+	cr.behaviors.Fade.prototype.cnds.OnWaitEnd,
+	cr.system_object.prototype.cnds.Repeat,
+	cr.plugins_.Sprite.prototype.exps.X,
+	cr.plugins_.Sprite.prototype.exps.Angle
 ];};

diff --git a/slvtn/offline.js b/slvtn/offline.js
@@ -1,5 +1,5 @@
 {
-	"version": 1608157458,
+	"version": 1608509124,
 	"fileList": [
 		"data.js",
 		"c2runtime.js",
@@ -18,25 +18,16 @@
 		"images/text-sheet3.png",
 		"images/text-sheet4.png",
 		"images/text-sheet5.png",
-		"images/text-sheet6.png",
-		"images/text-sheet7.png",
-		"images/text-sheet8.png",
-		"images/text-sheet9.png",
-		"images/text-sheet10.png",
-		"images/text-sheet11.png",
-		"images/text-sheet12.png",
-		"images/text-sheet13.png",
-		"images/text-sheet14.png",
 		"images/fish-sheet0.png",
 		"images/fish_touch-sheet0.png",
 		"images/button-sheet0.png",
-		"images/button-sheet1.png",
-		"images/button-sheet2.png",
 		"images/swiper-sheet0.png",
 		"images/swipeleft-sheet0.png",
 		"images/swipeleft-sheet1.png",
 		"images/swipeleft-sheet2.png",
 		"images/prayer-sheet0.png",
+		"images/buttton-sheet0.png",
+		"images/blink-sheet0.png",
 		"icon-16.png",
 		"icon-32.png",
 		"icon-114.png",
